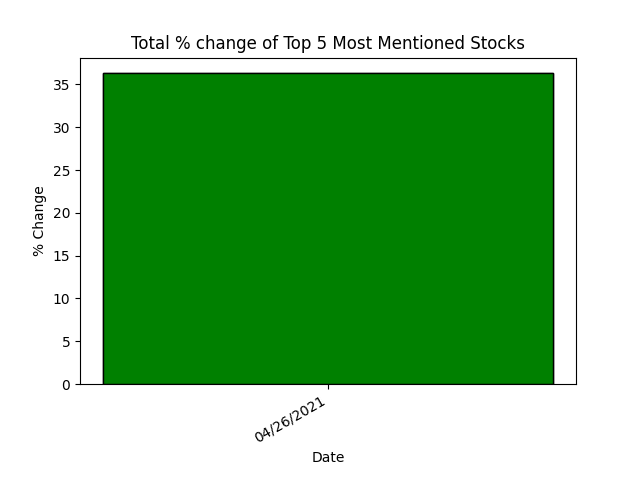
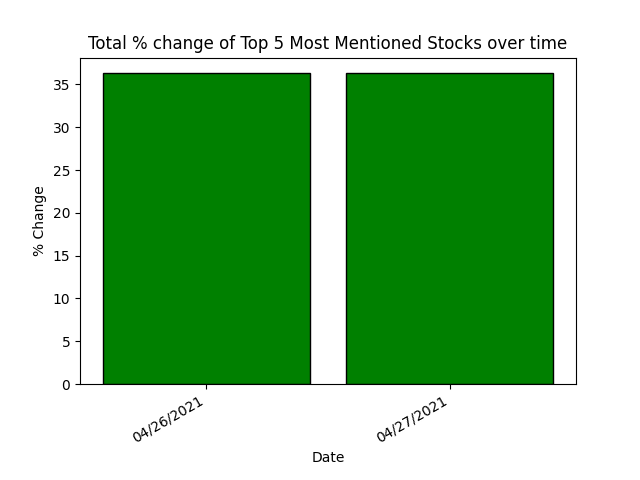
added graph
added graph fixed data

Changed region(s): [[0.125, 0.0625, 0.875, 0.9375], [0.5938, 0.8438, 0.6875, 0.9375], [0.2188, 0.8125, 0.3125, 0.9062]]

diff --git a/index.html b/index.html
@@ -55,5 +55,6 @@ stocks will be recorded and graphed daily.</text>
 <h3>Net percent change of all 5 stocks: <span style="color:green">36.32%</span></h3>
 <img src='commentsgraph.png'>
 <img src='netchangegraph.png'>
+<img src='nasdaqchangegraph.png'>
 </body>
 </html>

diff --git a/finaldata.py b/finaldata.py
@@ -1,4 +1,5 @@
 import datetime
+from yahoo_fin import stock_info as si
 from matplotlib import pyplot as plt
 import numpy as np
 input = open("marketopen.txt", "r")
@@ -75,6 +76,16 @@ for line in Lines:
     data = line.strip().split()
     percentchangedata.append(float(data[0]))
 netchangedata.close()
+
+nasdaqdata = open('nasdaqdata.txt','r')
+Lines = nasdaqdata.readlines()
+nasdaqchangedata = []
+for line in Lines:
+    data = line.strip().split()
+    nasdaqpercchange = ((float(data[1]) - float(data[0])) / float(data[0])) * 100
+    nasdaqchangedata.append(nasdaqpercchange)
+netchangedata.close()
+
 plt.figure(1)
 plt.title('Total # of Daily Comments')
 plt.ylabel('# of Comments')
@@ -83,8 +94,9 @@ plt.bar(datedata,commentdata,width=1,edgecolor = "black",color=redgreen3)
 plt.gcf().autofmt_xdate()
 plt.savefig("commentsgraph.png")
 plt.show()
+
 plt.figure(2)
-plt.title('Total % change of Top 5 Most Mentioned Stocks')
+plt.title('Total % change of Top 5 Most Mentioned Stocks over time')
 plt.ylabel('% Change')
 plt.xlabel('Date')
 negative_data = []
@@ -101,6 +113,26 @@ ax.bar(datedata, negative_data,width=.85,edgecolor = "black",color='red')
 ax.bar(datedata, positive_data,width=.85,edgecolor = "black",color='green')
 plt.gcf().autofmt_xdate()
 plt.savefig("netchangegraph.png")
+plt.show()
+
+plt.figure(3)
+plt.title('Total % change of NASDAQ over time')
+plt.ylabel('% Change')
+plt.xlabel('Date')
+negative_data = []
+positive_data = []
+for i in range(len(nasdaqchangedata)):
+    if(nasdaqchangedata[i] > 0):
+        positive_data.append(nasdaqchangedata[i])
+        negative_data.append(0)
+    else:
+        negative_data.append(nasdaqchangedata[i])
+        positive_data.append(0)
+ax = plt.subplot(111)
+ax.bar(datedata, negative_data,width=.85,edgecolor = "black",color='red')
+ax.bar(datedata, positive_data,width=.85,edgecolor = "black",color='green')
+plt.gcf().autofmt_xdate()
+plt.savefig("nasdaqchangegraph.png")
 plt.show()
 f = open('index.html','w')
 html = """<!DOCTYPE html>
@@ -160,6 +192,7 @@ stocks will be recorded and graphed daily.</text>
 <h3>Net percent change of all 5 stocks: <span style="color:""" + redgreen2 + """">""" + str(round(sum(percentchange),2)) + """%</span></h3>
 <img src='commentsgraph.png'>
 <img src='netchangegraph.png'>
+<img src='nasdaqchangegraph.png'>
 </body>
 </html>"""
 f.write(html)

diff --git a/marketopen.py b/marketopen.py
@@ -17,3 +17,7 @@ for i in range(len(toptickers)):
         curr_price = round(si.get_live_price(toptickers[i]),2)
         output.write(str(toptickers[i]) + " " + str(tickermentions[i]) + " " + str(comments) + " " + str(curr_price) + "\n")
 output.close()
+nasdaqdata = open('nasdaqdata.txt','a+')
+nasdaqprice = round(si.get_live_price('^IXIC'),2)
+nasdaqdata.write(str(nasdaqprice) + " ")
+nasdaqdata.close()

diff --git a/marketclose.py b/marketclose.py
@@ -14,3 +14,7 @@ for i in range(len(toptickers)):
         curr_price = round(si.get_live_price(toptickers[i]),2)
         output.write(str(curr_price) + "\n")
 output.close()
+nasdaqdata = open('nasdaqdata.txt','a+')
+nasdaqprice = round(si.get_live_price('^IXIC'),2)
+nasdaqdata.write(str(nasdaqprice) + "\n")
+nasdaqdata.close()
